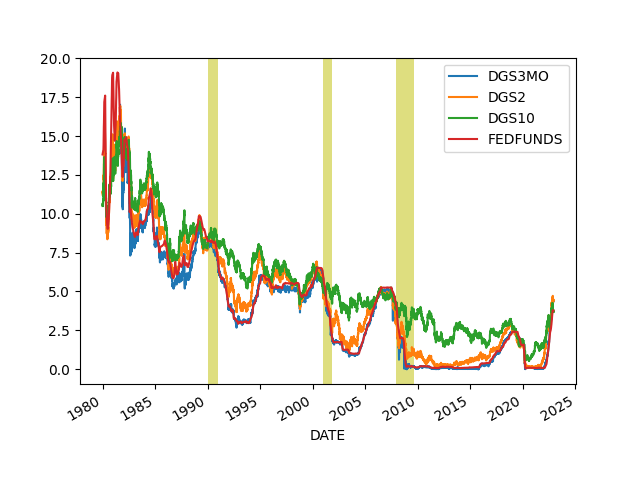
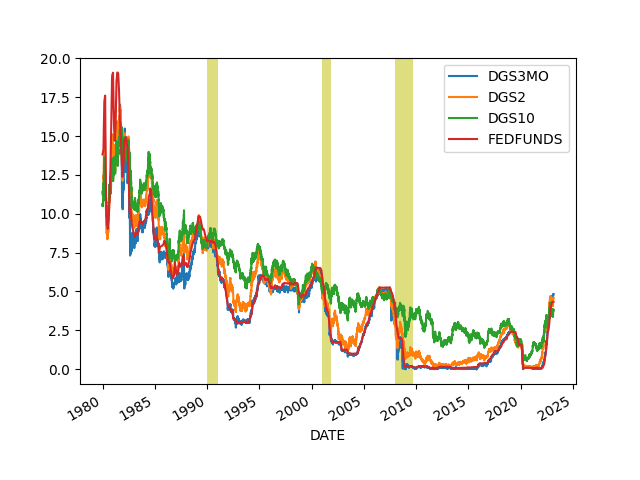
--

diff --git a/en/README.md b/en/README.md
@@ -1,125 +1,98 @@
 
+Paper: "Dr Lex van Loon [writes] the biggest concern [with space flight]
+is prolonged exposure to microgravity - near zero gravity -
+which, combined with exposure to damaging radiation from the Sun,
+could cause 'fundamental' changes to the body"
+
+[[-]](https://www.anu.edu.au/news/all-news/mars-model-provides-method-for-landing-humans-on-red-planet)
 
 ---
 
-Shut up! Say 'Evil Russia"! \#Kirby
-
-[[-]](https://youtu.be/h3HIDTpcM3g?t=24)
-
----
-
-Politico: "The First Step Act, a criminal-justice reform law, created,
-among other things, quicker pathways home for certain nonviolent
-federal prisoners and delivered some sentencing reforms... Activists
-now estimate that perhaps 20,000 people have been released so far
-because of the law, according to Lance Kramer, the producer of the
-newly released documentary The First Step. And this happened because a
-self-described “law-and-order” president [Trump], who had months
-earlier called for the execution of major drug dealers, somehow found
-common ground with members of the social-justice left.
+First Post: "Pakistan’s elite in trouble amid bankruptcy as IMF tells
+Shehbaz Sharif govt to tax only the rich"
 
 ---
 
-Major spike in new Masto users - from 300/hr it's now over 1000/hr.
+Atjazz - Kidnapped \#music
+
+[[-]](https://youtu.be/vlz_hjdL7rE)
 
 ---
 
-Cuck votes up norm votes down
-
-```python
-u.rottentomatoes_tv("Star Trek Discovery")
-```
-
-```text
-Out[1]: {'tomatometer score': '84%', 'audience score': '36%'}
-```
+"Norway produces 50% of 'energy' with hydropower!!". When you look
+closely it is electricity, not just "energy" and elec represents only
+20% of most energy consumption. So now the number goes down to 10% -
+for a country of 5 million 🤨 Is this supposed to impress anyone?
 
 ---
 
-*Fringe* was good scifi.. The strange thing is Ibrahim, Kurtzman,
-Akiva were all part of it... Then they mucked it all up for ST
-Discovery, "STD"
+Of overall *energy* the percentage is actually <4%. Electricity does
+not represent all energy consumption (a mere 15% in most
+countries). That is why most rosy renewable energy numbers are also
+false eg Germany, Norway
+
+"Today the US produces just 7% of its energy from renewables, the
+majority from hydroelectric schemes"
+
+[[-]](2022/01/energstats.html#usenergy)
 
 ---
 
-<iframe width="340" src="https://www.youtube.com/embed/kroU3SfCXE8" title="A Cloud City on Venus: Why Venus is a Better Choice" frameborder="0" allow="accelerometer; autoplay; clipboard-write; encrypted-media; gyroscope; picture-in-picture; web-share" allowfullscreen></iframe>
+It looks like generating things that can be interpreted one way or
+another problem (some might call that art) was solved first by today's
+crude attempts at AI.. Didn't scifi shows and movies have us believe
+art was the *last* thing to arrive? The android on Trek tried very
+hard to make jokes, create paintings after demonstrating excellent
+abilities in strong AI, feats today's algorithms can't even touch. I
+guess the only thing the super duper android from 24th century had to
+do was use some shit neural network code from 21st century, shove
+bunch of data in there, and let it "generate art" for him.
 
 ---
 
-ABC News: "Artisanal cobalt mining swallowing city in Democratic
-Republic of the Congo, satellite imagery shows"
+See GDELT, output files [here](http://data.gdeltproject.org/events).
+Pick one, and check `Actor1Name`, `Actor2Name`, and `EventCode`
+triplets for every record. I guarantee it half the time they will be
+wrong.
 
-[[-]](https://abcnews.go.com/International/cobalt-mining-transforms-city-democratic-republic-congo-satellite/story?id=96795773)
+This is one of the best language models. Use SOTA, and forget 80, 95%,
+if you can surpass 70% I will eat my hat. 
 
----
-
-There are doctoral degrees awarded for machine learning; was it too
-premature to turn this 'eclectic mix of CS/Stat subjects' into a whole
-new field? There aren't any major theoretical advances to their name,
-all they have is applications that are created by jury rigging ever
-larger neural nets, feeding more and more data into them to do it.
+The codes are documented in this [PDF](http://data.gdeltproject.org/documentation/CAMEO.Manual.1.1b3.pdf).
 
 ---
 
-There is a small chance for the challenger to win, for that Dems have
-to campaign like Gore and the Rep have to do extremely well, I'm
-talking Dubya, Karl Rove level well.
+When specific answers are required that have to be true, which is the definition
+of (strong) AI, deep neural nets have a huge problem. 
 
 ---
 
-At a potential 2% Q2 GDP growth incumbent is likely to win 2024 reelection. 
+It can't do shit. It miscategorizes stuff all the time
 
-```text
-Interval: [49.79 53.43] Average: 51.61
-```
-
----
-
-Net approval settled at around -10%. 
-
-
-```python
-u.biden_approval().net.plot()
-```
-
-<img width='340' src='mbl/2023/bidenapp1.jpg'/> 
+"GDELT uses some of the world's most sophisticated natural language
+and data mining algorithms, including the world's most powerful deep
+learning algorithms, to extract more than 300 categories of events,
+millions of themes and thousands of emotions and the networks that tie
+them together"
 
 ---
 
-Maps show who has been historically better at war - looking at Laos
-and Vietnam, the latter's landmass starts all the way from South,
-circles around, goes North, always in command of the seashore. Laos
-could have had a piece of that for access but has none - completely
-landlocked. Clearly Vietnam has been better at war.
-
-```python
-u.sm_plot_list1(18, 104, 2, [['Laos',20,102],['Vietnam',14,108]])
-```
-
-<img width='340' src='mbl/2023/laosviet.jpg'/> 
+It's funny I helped architect the tigger version of Ticketmaster,
+which was eventually acquired by... Ticketmaster. Monop is clearly
+their thing, at home and abroad.
 
 ---
 
-Fox News: "Ron DeSantis rips Biden's 'blank-check' Ukraine policy"
+A recent claim is Ticketmaster monopoly caused an absence of choices
+when TX systems went awry and "Swifties" went batshit 
+
+LA Times: "[2010] aTicketmaster-Live Nation merger gets Justice Department’s approval"
 
 ---
 
-US probably doesn't care as much about the Kurds of Rojova (NE Syria),
-but cares more about Shite Assad does not have an easy connection to
-the now-Shite-majority Iraq. Scared of an Iran-Iraq-Syria connectivity
-towards the Medi? The Kurdish areas cut them off nicely... There is
-some SYR-IRQ connection in the SE, and of course US has a base there
-(Al-Tanf) and the area is conveniently infested with the Sunni
-extremist Daesh.
-
-[[-]](https://newlinesinstitute.org/wp-content/uploads/20220712-Syria-NA.png)
-
----
-
-CNBC: "The SEC has a stablecoin firm in its sights — and it could
-shake up the whole $137 billion market.. The U.S. Securities and
-Exchange Commission (SEC) could be gearing up to take action against
-Paxos"
+Euractiv: "Putin: The more long-range Western systems are being
+delivered to Ukraine, the farther we will be forced to move the threat
+from our borders"
 
 ---
 

diff --git a/en/mbl/2023/week08.md b/en/mbl/2023/week08.md
@@ -1,5 +1,127 @@
 # Week 8
 
+---
+
+Shut up! Say 'Evil Russia"! \#Kirby
+
+[[-]](https://youtu.be/h3HIDTpcM3g?t=24)
+
+---
+
+Politico: "The First Step Act, a criminal-justice reform law, created,
+among other things, quicker pathways home for certain nonviolent
+federal prisoners and delivered some sentencing reforms... Activists
+now estimate that perhaps 20,000 people have been released so far
+because of the law, according to Lance Kramer, the producer of the
+newly released documentary The First Step. And this happened because a
+self-described “law-and-order” president [Trump], who had months
+earlier called for the execution of major drug dealers, somehow found
+common ground with members of the social-justice left.
+
+---
+
+Major spike in new Masto users - from 300/hr it's now over 1000/hr.
+
+---
+
+Cuck votes up norm votes down
+
+```python
+u.rottentomatoes_tv("Star Trek Discovery")
+```
+
+```text
+Out[1]: {'tomatometer score': '84%', 'audience score': '36%'}
+```
+
+---
+
+*Fringe* was good scifi.. The strange thing is Ibrahim, Kurtzman,
+Akiva were all part of it... Then they mucked it all up for ST
+Discovery, "STD"
+
+---
+
+<iframe width="340" src="https://www.youtube.com/embed/kroU3SfCXE8" title="A Cloud City on Venus: Why Venus is a Better Choice" frameborder="0" allow="accelerometer; autoplay; clipboard-write; encrypted-media; gyroscope; picture-in-picture; web-share" allowfullscreen></iframe>
+
+---
+
+ABC News: "Artisanal cobalt mining swallowing city in Democratic
+Republic of the Congo, satellite imagery shows"
+
+[[-]](https://abcnews.go.com/International/cobalt-mining-transforms-city-democratic-republic-congo-satellite/story?id=96795773)
+
+---
+
+There are doctoral degrees awarded for machine learning; was it too
+premature to turn this 'eclectic mix of CS/Stat subjects' into a whole
+new field? There aren't any major theoretical advances to their name,
+all they have is applications that are created by jury rigging ever
+larger neural nets, feeding more and more data into them to do it.
+
+---
+
+There is a small chance for the challenger to win, for that Dems have
+to campaign like Gore and the Rep have to do extremely well, I'm
+talking Dubya, Karl Rove level well.
+
+---
+
+At a potential 2% Q2 GDP growth incumbent is likely to win 2024 reelection. 
+
+```text
+Interval: [49.79 53.43] Average: 51.61
+```
+
+---
+
+Net approval settled at around -10%. 
+
+
+```python
+u.biden_approval().net.plot()
+```
+
+<img width='340' src='mbl/2023/bidenapp1.jpg'/> 
+
+---
+
+Maps show who has been historically better at war - looking at Laos
+and Vietnam, the latter's landmass starts all the way from South,
+circles around, goes North, always in command of the seashore. Laos
+could have had a piece of that for access but has none - completely
+landlocked. Clearly Vietnam has been better at war.
+
+```python
+u.sm_plot_list1(18, 104, 2, [['Laos',20,102],['Vietnam',14,108]])
+```
+
+<img width='340' src='mbl/2023/laosviet.jpg'/> 
+
+---
+
+Fox News: "Ron DeSantis rips Biden's 'blank-check' Ukraine policy"
+
+---
+
+US probably doesn't care as much about the Kurds of Rojova (NE Syria),
+but cares more about Shite Assad does not have an easy connection to
+the now-Shite-majority Iraq. Scared of an Iran-Iraq-Syria connectivity
+towards the Medi? The Kurdish areas cut them off nicely... There is
+some SYR-IRQ connection in the SE, and of course US has a base there
+(Al-Tanf) and the area is conveniently infested with the Sunni
+extremist Daesh.
+
+[[-]](https://newlinesinstitute.org/wp-content/uploads/20220712-Syria-NA.png)
+
+---
+
+CNBC: "The SEC has a stablecoin firm in its sights — and it could
+shake up the whole $137 billion market.. The U.S. Securities and
+Exchange Commission (SEC) could be gearing up to take action against
+Paxos"
+
+---
 
 China Daily: "The world's biggest project using solar and wind power
 to produce hydrogen started construction in Ordos, Inner Mongolia

diff --git a/en/2021/01/stats.md b/en/2021/01/stats.md
@@ -499,9 +499,9 @@ plt.savefig('treasuries.png')
 ```text
             DGS3MO  DGS2  DGS10  FEDFUNDS
 DATE                                     
-2022-11-28    4.41  4.46   3.69      3.78
-2022-11-29    4.38  4.48   3.75      3.78
-2022-11-30    4.37  4.38   3.68      3.78
+2023-02-15    4.79  4.62   3.81      4.33
+2023-02-16    4.84  4.62   3.86      4.33
+2023-02-17    4.84  4.60   3.82      4.33
 ```
 
 
